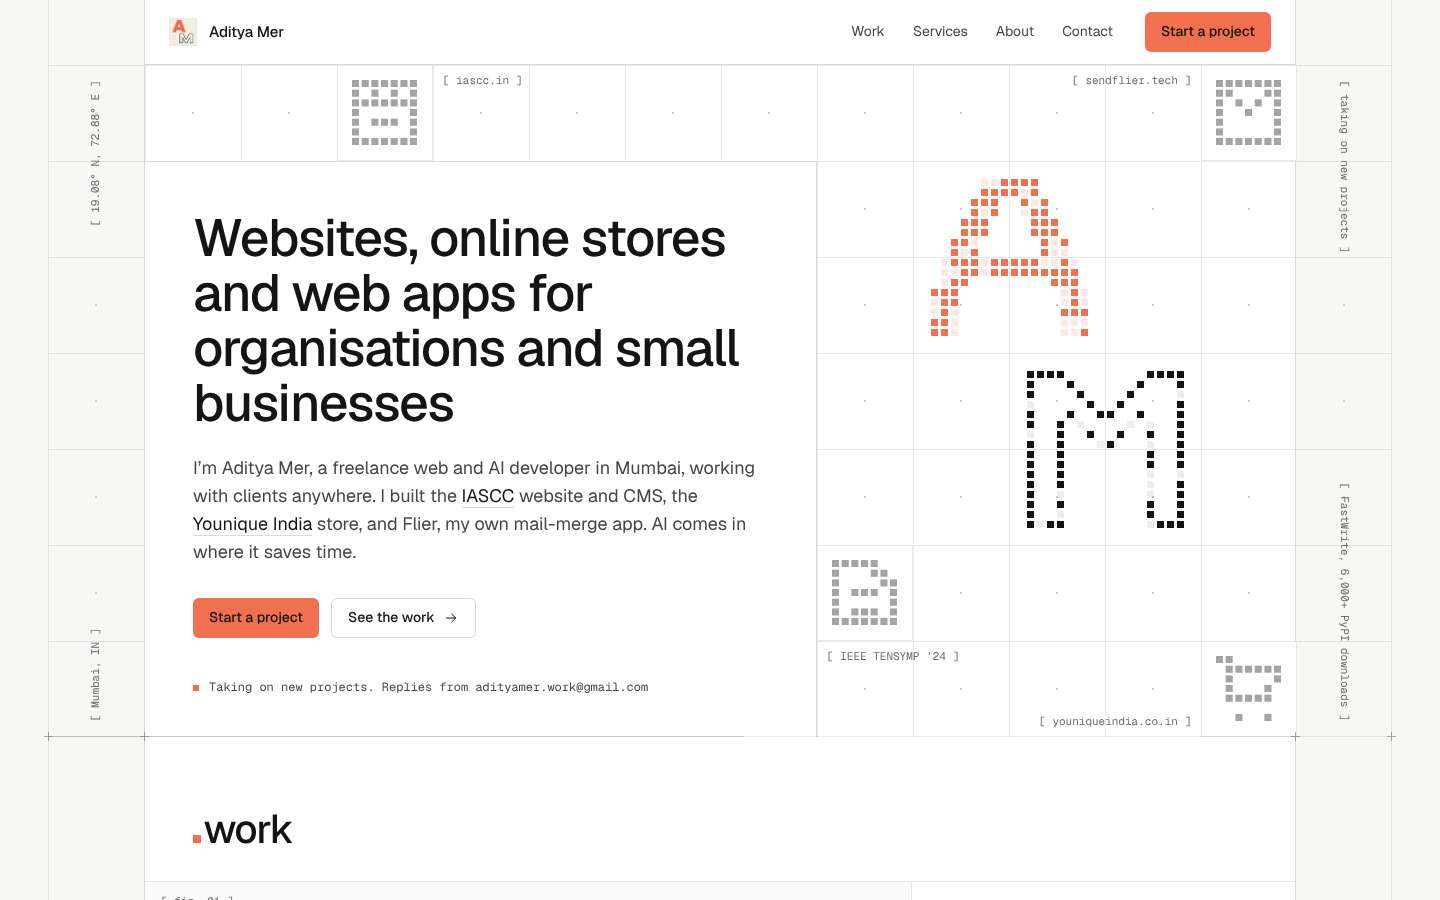
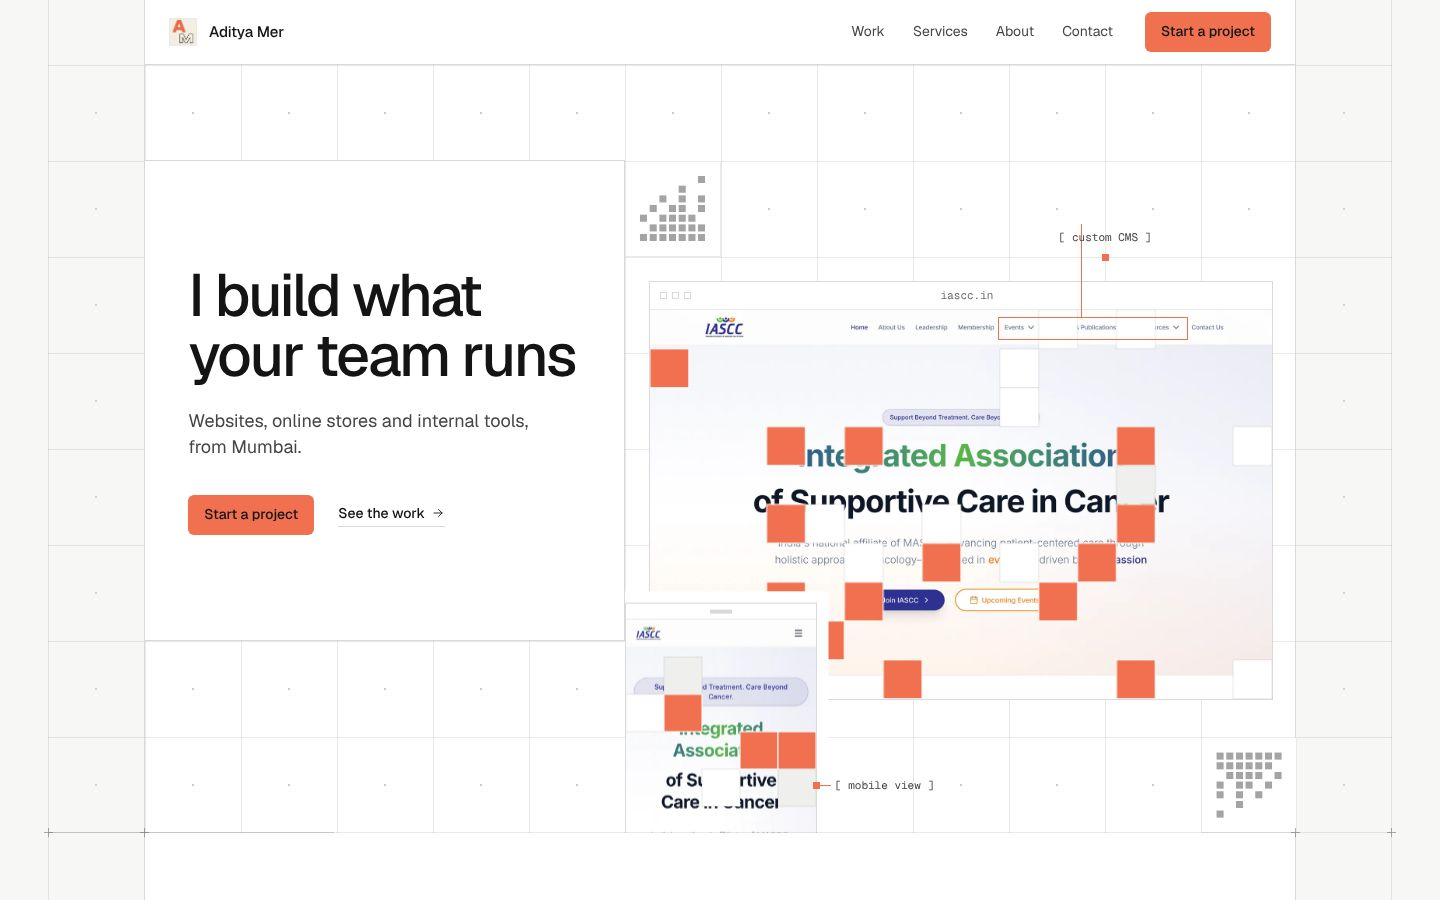
Mock B: hero v2 (24 words, case study starts in hero)
Claude-Session: https://claude.ai/code/session_01WUuDZFGfVJ36FVGzzxM2e9

diff --git a/mocks/a-drafting-sheet/index.html b/mocks/a-drafting-sheet/index.html
@@ -117,24 +117,25 @@ section,.ft{position:relative;view-timeline-name:--sec}
 .avail{margin-top:auto;padding-top:28px;display:flex;gap:10px;align-items:center;font-family:var(--mono);font-size:12px;color:var(--ink-2)}
 .avail i{width:6px;height:6px;background:var(--accent);flex:none}
 /* the work, rising out of the grid */
-.stage{grid-area:1/6/9/13;position:relative;overflow:hidden;z-index:1;--lx:4.75}
+.stage{grid-area:1/6/9/13;position:relative;overflow:hidden;z-index:1;--lx:4.75;--wl:.25}
 .win{position:absolute;display:block;background:var(--paper);border:1px solid var(--line-2)}
 .win .bar{height:28px;display:flex;align-items:center;gap:5px;padding:0 10px;border-bottom:1px solid var(--line)}
 .win .bar i{width:7px;height:7px;border:1px solid var(--line-2)}
 .win .url{margin:0 auto;transform:translateX(-12px);font-family:var(--mono);font-size:11px;color:var(--ink-3)}
 .win .img{position:relative}
 .win img{width:100%;height:auto}
-.win-d{left:calc(var(--cell)*.25);right:calc(var(--cell)*.25);top:calc(var(--cell)*2)}
+.win-d{left:calc(var(--cell)*var(--wl));right:calc(var(--cell)*.25);top:calc(var(--cell)*2)}
 .win-p{left:0;width:calc(var(--cell)*2);top:calc(var(--cell)*5);box-shadow:0 0 0 calc(var(--cell)*.12) var(--paper)}
 .win-p .bar{height:16px;justify-content:center}
 .win-p .bar i{width:22px;height:4px;border:0;background:var(--line-2)}
 .win:hover{border-color:var(--ink-3)}
 /* callout: a dashed box on the screenshot, a leader up to a labelled cell */
 .hl{position:absolute;left:56%;top:1.8%;width:30.5%;height:6%;border:1.5px solid var(--accent)}
-.hl::before{content:"";position:absolute;bottom:100%;left:calc(var(--cell)*var(--lx) - var(--cell)*.25 - 56% * 0 - 1px);width:1px;height:calc(var(--cell)*.6 + 28px);background:var(--accent)}
+.ld{position:absolute;left:calc(var(--cell)*(var(--lx) - var(--wl)) - 1px);top:calc(var(--cell)*-.6);width:1px;height:calc(var(--cell)*.6 + 29px + (100% - 29px)*.018);background:var(--accent)}
 .co{display:flex;align-items:flex-end;justify-content:center;padding-bottom:14px;position:relative;z-index:3;font-family:var(--mono);font-size:11px;line-height:1;color:var(--ink-2);white-space:nowrap}
-.co::before{content:"[ "}
+.co span::before{content:"[ "}
 .co span::after{content:" ]"}
+.r180 svg{transform:rotate(180deg)}
 .co i{position:absolute;left:50%;bottom:-4px;width:7px;height:7px;margin-left:-3.5px;background:var(--accent)}
 .co.side{align-items:center;justify-content:flex-start;padding:0 0 0 18px}
 .co.side i{left:-4px;top:50%;bottom:auto;margin:-3.5px 0 0}
@@ -352,17 +353,14 @@ html.js .in>.rl .ln{transform:none}
 }
 @keyframes draw{from{transform:scaleX(0)}to{transform:none}}
 @media (prefers-reduced-motion:reduce){
-  html.js .rv,html.js .rl .ln,html.js .hero .px-f{opacity:1!important;transform:none!important;animation:none!important;transition:none!important}
+  html.js .rv,html.js .rl .ln,html.js .hero .px-f,html.js .win{opacity:1!important;transform:none!important;animation:none!important;transition:none!important}
+  .cov{display:none}
 }
 
 /* ---------- responsive ---------- */
-@media (min-width:1100px){.m-show{display:none}}
 @media (max-width:1099px){
-  .hero-g{grid-template-rows:repeat(4,var(--cell)) auto}
-  .hero-g>*{grid-area:var(--gt,var(--ga))}
-  .hero-g>.hero-t{grid-area:5/1/6/-1;border:0;border-top:1px solid var(--line-2);padding:40px 40px 40px}
-  .hero h1{font-size:clamp(32px,5.4vw,48px)}
-  .t-hide{display:none}
+  .sub1{font-size:16px}
+  .wk-in{padding:0 32px 32px}
   .sh,.pad{padding-left:32px;padding-right:32px}
   .case,.case.flip,.theska,.merge,.bio,.sk,.faq,.ct{grid-template-columns:1fr}
   .case.flip .shot{order:0}
@@ -391,15 +389,26 @@ html.js .in>.rl .ln{transform:none}
   .foot>div:first-child{padding-left:32px}
 }
 @media (max-width:759px){
-  .hero-g>*{grid-area:var(--gm,var(--gt))}
-  .hero-g>.hero-t{grid-area:5/1/6/-1}
-  .hero-g::before,.hero-g::after,.gl,.m-hide{display:none}
+  .hero-g{grid-template-rows:auto repeat(6,var(--cell))}
+  .hero-g>*{grid-area:var(--gm,var(--ga))}
+  .hero-g>.hero-t{grid-area:1/1/2/-1;border:0;border-bottom:1px solid var(--line-2);margin:0;padding:28px 20px 32px}
+  .hero-g::before,.hero-g::after{display:none}
   .dm svg{shape-rendering:auto}
-  .hero-g>.hero-t{padding:32px 20px 36px}
   .lbl,.lbl.r{justify-self:start;align-self:start}
-  .hero h1{font-size:34px;line-height:1.08}
-  .lead{font-size:16px;margin-top:20px}
-  .acts{margin-top:28px}
+  .hero h1{font-size:44px;line-height:1.02}
+  .sub1{font-size:16px;margin-top:14px}
+  .acts{margin-top:24px}
+  .stage{grid-area:2/1/8/-1;--lx:4.5;--wl:.75}
+  .win-d{right:calc(var(--cell)*.25);top:var(--cell)}
+  .win .bar{height:20px;padding:0 7px;gap:4px}
+  .win .bar i{width:5px;height:5px}
+  .win .url{font-size:10px}
+  .ld{height:calc(var(--cell)*.6 + 21px + (100% - 21px)*.018)}
+  .win-p{left:calc(var(--cell)*.25);width:calc(var(--cell)*1.75);top:calc(var(--cell)*3)}
+  .win-p .bar{height:12px}
+  .co{padding-bottom:12px;font-size:10px}
+  .lead{font-size:17px}
+  .wk-in{padding:0 20px 28px}
   .acts .btn{height:44px}
   .lbl{font-size:10px;padding:7px 6px}
   .sh{padding:56px 20px 24px;flex-direction:column;align-items:flex-start;gap:12px}
@@ -465,35 +474,31 @@ html.js .in>.rl .ln{transform:none}
 <!-- ============ HERO ============ -->
 <section class="hero" id="top">
   <div class="hero-g">
-    <div class="gl l" aria-hidden="true"><span>[ Mumbai, IN ]</span><span>[ 19.08° N, 72.88° E ]</span></div>
-    <div class="gl r" aria-hidden="true"><span>[ taking on new projects ]</span><span>[ FastWrite, 6,000+ PyPI downloads ]</span></div>
-
-    <!-- AM monogram, drawn after the logo: solid A, outlined M -->
-    <div class="dm lg a" data-g="A" aria-hidden="true" style="--ga:2/9/span 2/span 2;--gt:1/7/span 2/span 2;--gm:1/2/span 2/span 2"></div>
-    <div class="dm lg m" data-g="M" aria-hidden="true" style="--ga:4/10/span 2/span 2;--gt:3/8/span 2/span 2;--gm:3/3/span 2/span 2"></div>
-
-    <div class="dm sm cellw" data-g="web" aria-hidden="true" style="--ga:1/3;--gt:2/2;--gm:1/5"></div>
-    <span class="lbl" style="--ga:1/4/2/7;--gt:1/2/2/5;--gm:2/5/3/7">[ iascc.in ]</span>
-
-    <div class="dm sm cellw" data-g="mail" aria-hidden="true" style="--ga:1/12;--gt:1/11;--gm:4/6"></div>
-    <span class="lbl r" style="--ga:1/9/2/12;--gt:2/9/3/12;--gm:3/5/4/7">[ sendflier.tech ]</span>
-
-    <div class="dm sm cellw t-hide" data-g="paper" aria-hidden="true" style="--ga:6/8"></div>
-    <span class="lbl t-hide" style="--ga:7/8/8/10">[ IEEE TENSYMP ’24 ]</span>
-
-    <div class="dm sm cellw" data-g="cart" aria-hidden="true" style="--ga:7/12;--gt:4/12;--gm:4/1"></div>
-    <span class="lbl r b m-hide" style="--ga:7/9/8/12;--gt:3/10/4/13">[ youniqueindia.co.in ]</span>
-    <span class="lbl b m-show" style="--ga:6/12/7/13;--gt:3/2/4/5;--gm:3/1/4/3">[ Mumbai, IN ]</span>
-
     <div class="hero-t">
-      <h1>Websites, online stores and web apps for organisations and small businesses</h1>
-      <p class="lead">I’m Aditya Mer, a freelance web and AI developer in Mumbai, working with clients anywhere. I built the <a href="https://iascc.in">IASCC</a> website and CMS, the <a href="https://www.youniqueindia.co.in">Younique India</a> store, and Flier, my own mail-merge app. AI comes in where it saves time.</p>
+      <h1>I build what your team runs</h1>
+      <p class="sub1">Websites, online stores and internal tools, from Mumbai.</p>
       <div class="acts">
         <a class="btn btn-p" href="#contact">Start a project</a>
-        <a class="btn btn-s" href="#work">See the work <svg class="ico"><use href="#i-r"/></svg></a>
+        <a class="lnk" href="#work">See the work <svg class="ico"><use href="#i-r"/></svg></a>
       </div>
-      <p class="avail"><i></i>Taking on new projects. Replies from adityamer.work@gmail.com</p>
     </div>
+
+    <!-- the work rises out of the grid: IASCC, desktop and phone -->
+    <div class="stage">
+      <a class="win win-d" href="#work" aria-label="IASCC website, see the case study">
+        <span class="bar" aria-hidden="true"><i></i><i></i><i></i><span class="url">iascc.in</span></span>
+        <span class="img"><img src="../assets/iascc.webp" width="1600" height="1000" alt="" fetchpriority="high"><svg class="cov" data-c="16" data-r="10" aria-hidden="true"></svg><span class="hl"></span></span>
+        <span class="ld"></span>
+      </a>
+      <a class="win win-p" href="#work" aria-label="IASCC on a phone, see the case study">
+        <span class="bar" aria-hidden="true"><i></i></span>
+        <span class="img"><img src="../assets/iascc-mobile.webp" width="560" height="1211" alt="" decoding="async"><svg class="cov" data-c="5" data-r="11" aria-hidden="true"></svg></span>
+      </a>
+    </div>
+    <p class="co" style="--ga:2/10/3/12;--gm:2/4/3/7"><span>custom CMS</span><i></i></p>
+    <p class="co side" style="--ga:8/8/9/10;--gm:7/3/8/6"><b></b><i></i><span>mobile view</span></p>
+    <div class="dm sm cellw" data-g="cnr" aria-hidden="true" style="--ga:2/6;--gm:2/1"></div>
+    <div class="dm sm cellw r180" data-g="cnr" aria-hidden="true" style="--ga:8/12;--gm:7/6"></div>
   </div>
 </section>
 
@@ -501,6 +506,8 @@ html.js .in>.rl .ln{transform:none}
 <section id="work">
   <div class="rl"><i class="ln"></i><b></b><b></b><b></b><b></b></div>
   <header class="sh"><h2 class="rv"><i></i>work</h2><p class="mono rv" style="--i:1">3 client projects, 1 product of my own</p></header>
+  <div class="wk-in"><p class="lead rv">I’m Aditya Mer, a freelance web and AI developer in Mumbai, working with clients anywhere. I built the <a href="https://iascc.in">IASCC</a> website and CMS, the <a href="https://www.youniqueindia.co.in">Younique India</a> store, and Flier, my own mail-merge app. AI comes in where it saves time.</p>
+    <p class="avail rv" style="--i:1;padding-top:16px"><i></i>Taking on new projects. Replies from adityamer.work@gmail.com</p></div>
 
   <article class="case bt">
     <div class="shot">
@@ -760,7 +767,7 @@ html.js .in>.rl .ln{transform:none}
   <div class="rl"><i class="ln"></i><b></b><b></b><b></b><b></b></div>
   <div class="foot">
   <div><span class="k">Drawn by</span><span>Aditya Mer, freelance web and AI developer</span></div>
-  <div><span class="k">Location</span><span>Mumbai, India</span></div>
+  <div><span class="k">Location</span><span>Mumbai, India</span><span class="k">19.08° N, 72.88° E</span></div>
   <div><span class="k">Email</span><a href="mailto:adityamer.work@gmail.com">Write to me</a></div>
   <div><span class="k">Elsewhere</span><a href="https://github.com/aditya190803">GitHub</a></div>
   <div><span class="k">Sheet</span><span>1 of 1 · © <span id="yr">2026</span> Aditya Mer</span></div>
@@ -780,6 +787,7 @@ html.js .in>.rl .ln{transform:none}
     mail:['#######','##...##','#.#.#.#','#..#..#','#.....#','#.....#','#######'],
     paper:['#####..','#...##.','#....##','#.###.#','#.....#','#.###.#','#######'],
     cart:['##.....','.######','.#....#','.#...#.','.#####.','.......','..#..#.'],
+    cnr:['......#','....#..','..#.#.#','.#.##.#','#.####.','.######','#######'],
     app:['#######','#######','#.....#','#.##..#','#.....#','#.####.','#######']
   };
   function outline(m){var h=m.length,w=m[0].length,o=[];for(var y=0;y<h;y++){var r='';for(var x=0;x<w;x++){var on=m[y][x]=='#',e=!on?0:(y==0||x==0||y==h-1||x==w-1||m[y-1][x]!='#'||m[y+1][x]!='#'||m[y][x-1]!='#'||m[y][x+1]!='#');r+=e?'#':'.'}o.push(r)}return o}
@@ -795,6 +803,15 @@ html.js .in>.rl .ln{transform:none}
         f+=r+' class="px-f '+(scr?'s':'l')+'" style="--d:'+dl+'s'+(scr?';--a:'+Math.round(rnd()*240)+'px':'')+'"/>';}
       else f+=r+' class="px-f"/>';}
     el.innerHTML='<svg viewBox="0 0 '+n*p+' '+n*p+'">'+b+f+'</svg>';
+  });
+  // cover pixels over the screenshots: most clear on load (bottom rows first), the rest as you scroll
+  d.querySelectorAll('.cov').forEach(function(sv){
+    var c=+sv.dataset.c,r=+sv.dataset.r,o='';
+    for(var y=0;y<r;y++)for(var x=0;x<c;x++){
+      var scr=rnd()<.2,k=rnd(),cl=scr&&k<.35?' o':(k>.85?' g':''),dl=(.2+(1-y/r)*.8+rnd()*.45).toFixed(2);
+      o+='<rect x="'+x+'" y="'+y+'" width="1" height="1" class="cv '+(scr?'s':'l')+cl+'" style="--d:'+dl+'s'+(scr?';--a:'+Math.round(rnd()*260)+'px':'')+'"/>';
+    }
+    sv.setAttribute('viewBox','0 0 '+c+' '+r);sv.setAttribute('preserveAspectRatio','none');sv.innerHTML=o;
   });
   // reveal once + hairline fallback
   var rv=d.querySelectorAll('.rv'),secs=d.querySelectorAll('section,.ft');

diff --git a/mocks/b-casework/index.html b/mocks/b-casework/index.html
@@ -328,6 +328,7 @@ footer{border-top:1px dashed var(--dash);position:relative;background:var(--pape
   .top-in{grid-template-columns:1fr auto}
   .brand{border-right:0}
   .hero-in{min-height:0;padding-top:48px}
+  .hero-grid{-webkit-mask:linear-gradient(to bottom,transparent 40%,#000 70%,transparent);mask:linear-gradient(to bottom,transparent 40%,#000 70%,transparent)}
   .about-lead,.contact-in{grid-template-columns:1fr;gap:32px}
   .svc{grid-template-columns:1fr}
   .svc > li:nth-child(odd){border-right:0}

diff --git a/mocks/c-glyph/index.html b/mocks/c-glyph/index.html
@@ -947,7 +947,7 @@ footer .links a:hover{color:var(--ink)}
   function measure() {
     const r = shot.getBoundingClientRect();
     const top = r.top + window.scrollY;
-    range = Math.max(320, top + r.height * 0.55 - innerHeight * 0.3);
+    range = Math.max(240, top + r.height * 0.4 - innerHeight * 0.3);
   }
   function onScroll() {
     if (!visible) return;

diff --git a/mocks/b-casework/NOTES.md b/mocks/b-casework/NOTES.md
@@ -43,3 +43,10 @@
 ## Template check
 - Swapping in another freelancer's name doesn't work.
 - The hero names his own projects (IASCC, Younique India, Flier). The graphic is his AM logo redrawn in dots, and the corner labels are his coordinates, his client's domain, his paper and his PyPI package.
+
+## Hero v2 (revision 2 rules)
+- **Composition:** the work is the hero. A compact top-left block holds the H1 "I build what your team runs" on one line, then one row with the sub-line ("Websites, stores and internal tools. Freelance, from Mumbai.") beside `Start a project` and a quiet "See the work ↓" text link. The IASCC scene (desktop capture overlapped by the phone on its tinted panel) is the first card of the sticky stack and fills the rest of the screen, cropped by the bottom edge. Scrolling pins it and Younique slides over it, so the stack starts in the hero.
+- **Removed:** the dot-matrix AM monogram (it duplicated mock A), the "who" line, the lede, the availability sentence and the four corner tags. The `.work` title block was dropped because the stack now sits straight under the hero (the section keeps `id="work"` and `aria-label`). Its rule ("Two client sites… · 04") moved under the stack, the coordinates moved to the `.about` rule, `pip install fastwrite` moved to the FastWrite card, and the IEEE paper and client sentences already live in `.about` and the cards.
+- **Labels (2):** `[ ● Open for projects ]` in the hero corner, and `[ 01/04 ]` on the scene (every card now carries its own `0n/04`).
+- **Sizing:** `--sceneH` (66vh, 300–620px) now sets every scene's height. The hero's min-height is `100svh - header - sceneH - 9px`, so the scene ends about 24px below the fold and the card's text stays off the first screen. The grid/dot texture sits only behind the scene area, masked away from the copy (on mobile it starts below the buttons). Card 1's images load eagerly with `fetchpriority="high"`. Hovering the first card lifts the browser 6px and the phone 14px.
+- **Measured:** count.js reports 24 words on the first screen. The real total is 25, because the aria-hidden `01/04` label isn't counted. Visual share at 1440x900: the scene runs from y=323 to below the fold, about 69% of the area below the header. scrollWidth is 390 at 390. CLS is 0.0003 at 1440 and 0.0005 at 390. With reduced motion, 0 hidden `.rv` and 0 transformed cards.
